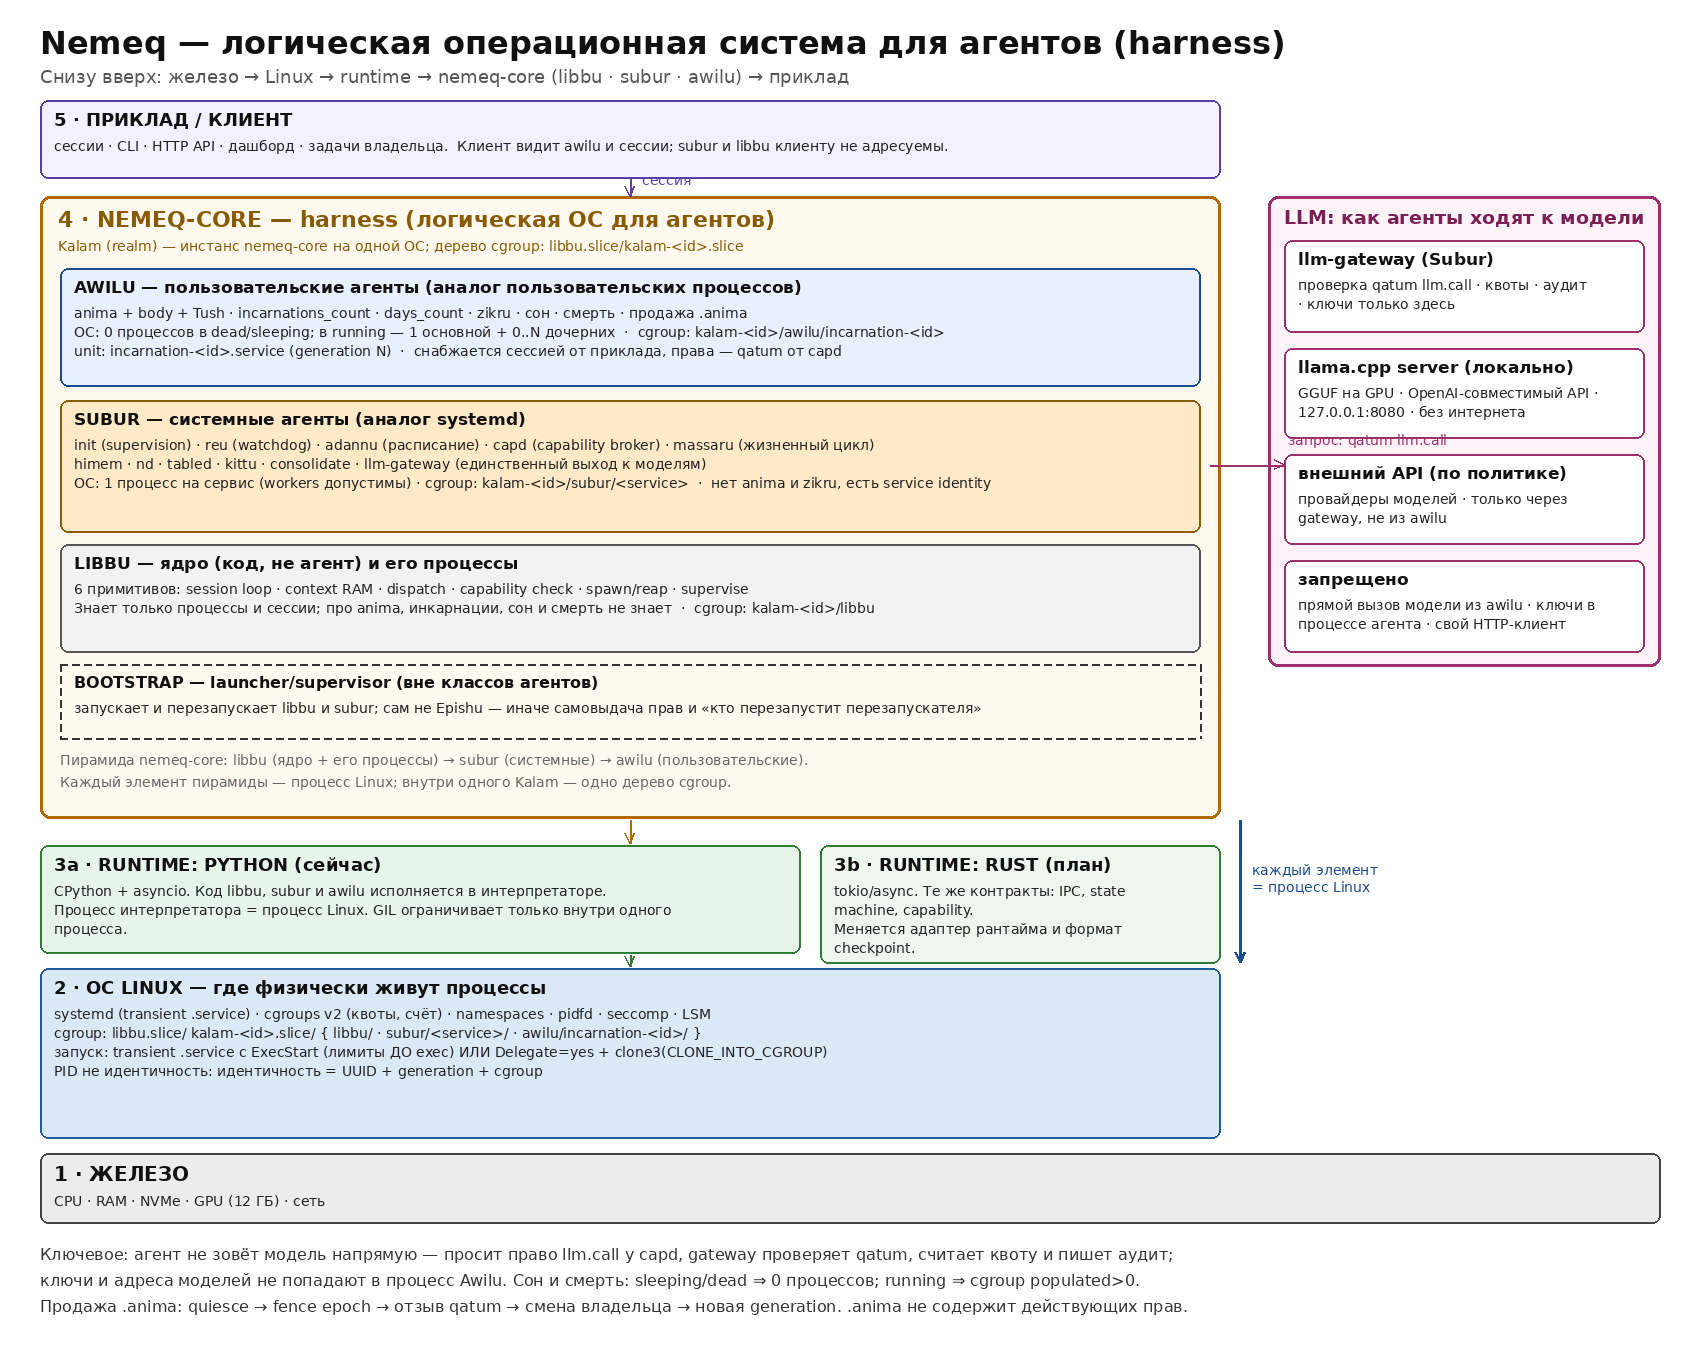
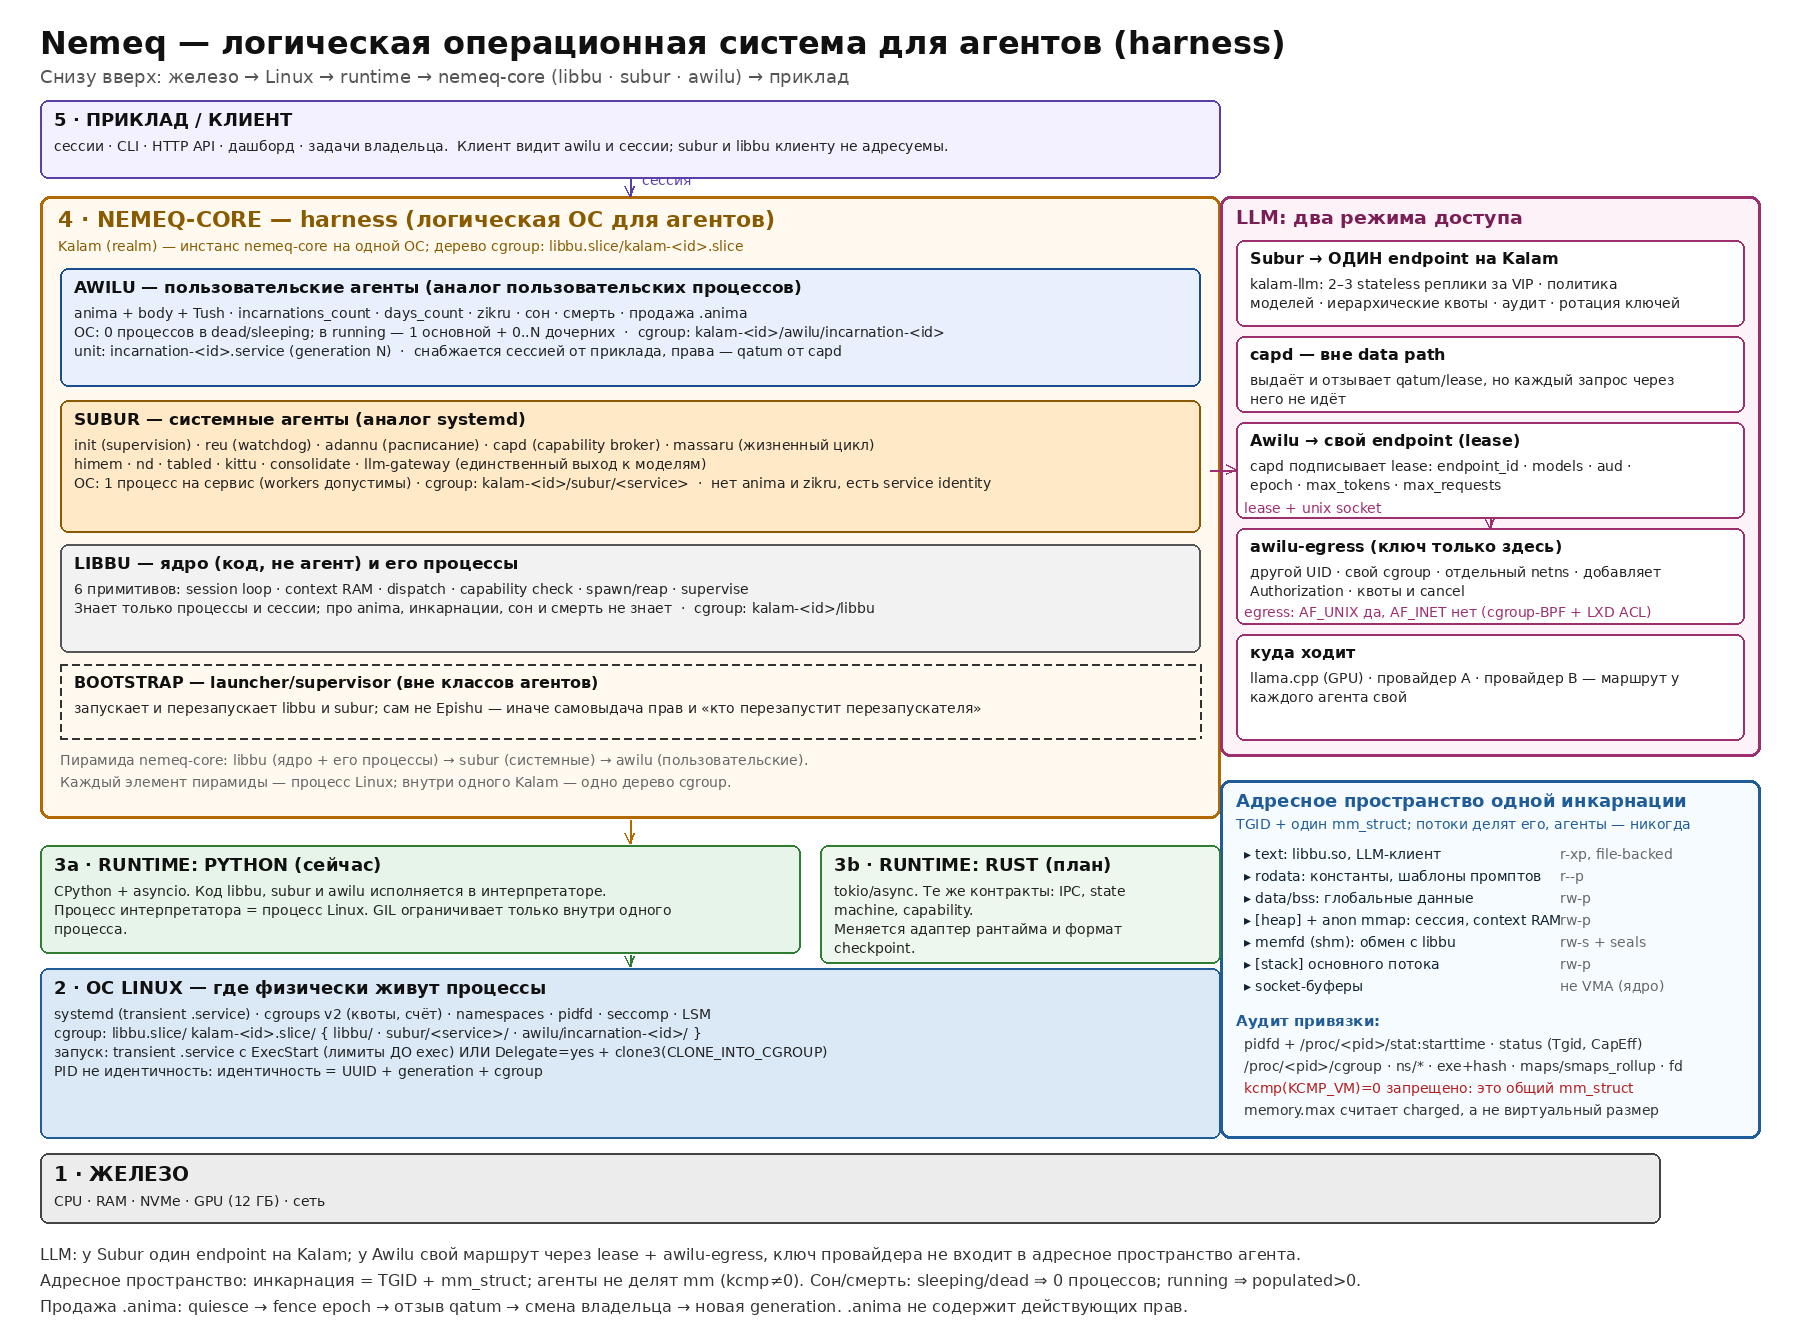
arch: LLM — один endpoint у Subur, lease+egress у Awilu; адресное пространство (mm_struct, сегменты, аудит kcmp)

Changed region(s): [[0.0, 0.0, 0.9976, 0.9791], [0.9041, 0.8873, 0.9353, 0.9179], [0.8729, 0.7037, 0.9041, 0.7343]]

diff --git a/docs/architecture/02a-process-model.md b/docs/architecture/02a-process-model.md
@@ -117,6 +117,57 @@ anima 1 ── 0..N incarnation 1 ── 0..N generation 1 ── 1 cgroup/unit 
 
 ---
 
+
+### 4a. Адресное пространство: как nemeq ложится на Linux
+
+| Nemeq | Linux |
+|---|---|
+| Инкарнация Awilu | **TGID + отдельный `mm_struct`**; все потоки инкарнации делят это адресное пространство |
+| Дочерний процесс агента | `fork()`/`clone()` без `CLONE_VM` → **свой `mm_struct`**, страницы сначала общие через COW |
+| Права (capability) | принадлежат задаче/процессу, **не** отдельному потоку и не «агенту» как логической сущности |
+| Лимит памяти | `memory.max` в cgroup считает **charged**-память (anon, page cache/shmem, page tables, kernel), а не размер виртуального пространства |
+
+**Где что лежит в адресном пространстве:**
+
+| Объект | Размещение |
+|---|---|
+| Код `libbu` | `libbu.so` → file-backed `r-xp` VMA |
+| Константы, шаблоны промптов | ELF `rodata`, `r--p` |
+| Глобальные данные процесса | ELF `data/bss`, `rw-p` |
+| Состояние сессии | `[heap]` или anonymous `mmap`, `rw-p` |
+| Context RAM (крупные буферы) | anonymous `mmap` или `memfd`/shm, `rw-s`/`r--s` |
+| Стек основного потока | `[stack]` |
+| LLM-клиент, HTTP/TLS/JSON буферы | text/rodata + heap |
+| Токены и ключи | **не должны** находиться в памяти Awilu (см. §5a) |
+| Socket-буферы | **не VMA**: память ядра, видна в `memory.stat:sock` |
+
+**Передача больших данных libbu ↔ агент:** `memfd_create(MFD_ALLOW_SEALING)` → `ftruncate` → `mmap`/запись → **seals** (`F_SEAL_SHRINK|GROW|WRITE|SEAL`) → `SCM_RIGHTS` по `AF_UNIX SOCK_SEQPACKET` → получатель делает `mmap(PROT_READ, MAP_SHARED)`. На сокете обязательна проверка `SO_PEERCRED`. Получатель проверяет `fstat` (тип, размер, inode), `F_GET_SEALS`, ожидаемую длину и хеш. `pipe` и обычный socket — только для мелких сообщений.
+
+**Аудит «агент → процесс → адресное пространство»:**
+
+```
+1. pidfd_open(pid)           — устойчивый handle
+2. /proc/<pid>/stat          — поле 22 starttime (защита от переиспользования PID)
+3. /proc/<pid>/status        — Tgid, Pid, NStgid/NSpid, CapEff, NoNewPrivs, Seccomp
+4. /proc/<pid>/cgroup        — ожидается 0::/kalam-<id>/awilu/incarnation-<id>
+5. /proc/<pid>/ns/*          — inode-ы pid/user/mnt/net/cgroup
+6. /proc/<pid>/exe + hash    — доказательство исполняемого кода
+7. /proc/<pid>/maps, smaps_rollup — VMA (start-end, perms, pathname, Rss/Pss)
+8. /proc/<pid>/fd, fdinfo    — pipe:[inode], socket:[inode]
+9. kcmp(pid1, pid2, KCMP_VM) — 0 = общий mm_struct (запрещено), иначе разные
+```
+
+`maps`/`smaps` читаются одним полным чтением (иначе гонка с изменениями VMA). `kcmp` вызывать на замороженной инкарнации.
+
+**Инварианты адресного пространства:**
+
+1. Одна инкарнация — один `mm_struct`; потоки делят его, отдельные агенты — никогда (`kcmp(KCMP_VM) ≠ 0`).
+2. Процесс запускается **в целевом cgroup до** загрузки контекста и крупных буферов (иначе страницы останутся начислены старой cgroup).
+3. Крупные передаваемые буферы — `memfd` с seals и `SCM_RIGHTS`; получатель монтирует только `PROT_READ`.
+4. Агент не видит VMA другого агента; доказательство — отсутствие общих file-backed shared VMA и `kcmp ≠ 0`.
+
+---
+
 ## 5. Жизненный цикл и fencing
 
 **Состояния:** `dormant → starting → running → sleeping → dead`, плюс `migrating`.
@@ -136,6 +187,64 @@ anima 1 ── 0..N incarnation 1 ── 0..N generation 1 ── 1 cgroup/unit 
 **Сон** — не `SIGSTOP`: checkpoint записан, процессы остановлены, leaf-cgroup пуст, systemd-юнита нет. При пробуждении capability **перепроверяются**, а не продолжаются.
 
 **Продажа `.anima`:** quiesce → fence → отзыв qatum → смена владельца → новая generation. `.anima` — переносимый артефакт и **не действующая авторизация**.
+
+---
+
+
+### 5a. Доступ к LLM: Subur — один endpoint на Kalam, Awilu — свой
+
+**Subur (служебные): один логический endpoint на Kalam.**
+
+```
+Subur → kalam-llm (VIP/service) → 2–3 stateless реплики Kalam-LLM → провайдеры
+```
+
+Один логический endpoint даёт: единую политику (разрешённые модели, лимиты контекста), иерархические квоты `installation → subsystem → agent → incarnation`, аудит, ротацию ключей, circuit breaker и нормализацию разных API. Отказоустойчивость — 2–3 stateless-реплики за VIP, локальный unix-socket для Subur, HA-хранилище квот и append-only аудит с локальным буфером.
+
+**`capd` в data path не стоит**: он выдаёт и отзывает права, но каждый LLM-запрос через него не проходит.
+
+**Awilu (пользовательские): каждый может иметь свой endpoint.**
+
+```
+Awilu ──(unix socket + lease)──▶ awilu-egress ──(провайдерский ключ)──▶ endpoint_A
+                                  (другой UID, cgroup, netns)
+```
+
+- `capd` выдаёт **lease**: `lease_id`, `incarnation_id`, `endpoint_id`, `models`, `aud`, `epoch`, `not_before/expires_at`, `max_input_tokens`, `max_output_tokens`, `max_requests`, `concurrency`. Lease подписан и привязан к epoch.
+- **Ключ провайдера никогда не попадает в адресное пространство Awilu.** Его держит `awilu-egress` — отдельный процесс под другим UID/cgroup и, желательно, в отдельном network namespace. Агент получает только путь к unix-socket и lease.
+- **Egress default deny:** агенту разрешён `AF_UNIX`; `AF_INET/AF_INET6` закрыт; egress-прокси разрешает только заданные destination; дополнительно cgroup-BPF `connect4/connect6` и LXD ACL.
+
+Причина жёсткости: если агент сам открывает HTTPS с bearer-токеном, **токен неизбежно окажется в его памяти** хотя бы на время запроса, а DPoP/mTLS не спасает от кода внутри того же процесса.
+
+**Сравнение вариантов:**
+
+| Вариант | Плюсы | Минусы | Вердикт |
+|---|---|---|---|
+| А. Все через общий gateway | максимум аудита, простые квоты и ротация | общий blast radius, задержка, сложнее нестандартные API | для Subur |
+| Б. Awilu напрямую с токеном | минимальная задержка | токен в памяти агента, слабее квоты | только особая политика |
+| **В. Гибрид** | централизованный Subur + индивидуальные маршруты Awilu | два data-plane режима, нужен общий lease-протокол | **выбран** |
+
+**Учёт токенов и квоты (три уровня):**
+
+1. `Kalam-LLM` / `awilu-egress` — оперативный authoritative counter: reservation до запроса (`input_estimate + max_output`), стриминговый подсчёт, немедленный `cancel` при hard limit.
+2. Провайдер — сверка фактического расхода (включая cached/reasoning), не годится для мгновенного enforcement.
+3. Сетевой egress — контроль аномалий (байты, соединения, destinations).
+
+**Отказы:**
+
+| Сценарий | Поведение |
+|---|---|
+| Endpoint недоступен | retry с backoff + circuit breaker; инкарнация живёт, задача помечается `blocked` |
+| Lease отозван / истёк | 401/403 на прокси; агент получает `TOOL_FAIL`, эскалация в Subur |
+| Квота исчерпана | hard stop до запроса; состояние `quota_exhausted`, сон/эскалация |
+| Ключ скомпрометирован | ротация ключа в egress, инвалидация lease по epoch, fence инкарнации при необходимости |
+
+**Инварианты LLM-доступа:**
+
+1. В памяти процесса Awilu нет провайдерских ключей: проверка — отсутствие секретов в `/proc/<pid>/environ`, `maps` и heap-дампах, плюс egress default deny.
+2. Любой вызов модели у Awilu идёт через lease, привязанный к `incarnation_epoch`; после fence старый lease не действует.
+3. У Subur ровно один логический endpoint на Kalam; у Awilu — свой маршрут/аккаунт/модель, но не обязательно свой ключ.
+4. Квоты считаются до запроса (reservation), а не после; иначе hard limit не работает.
 
 ---
 
